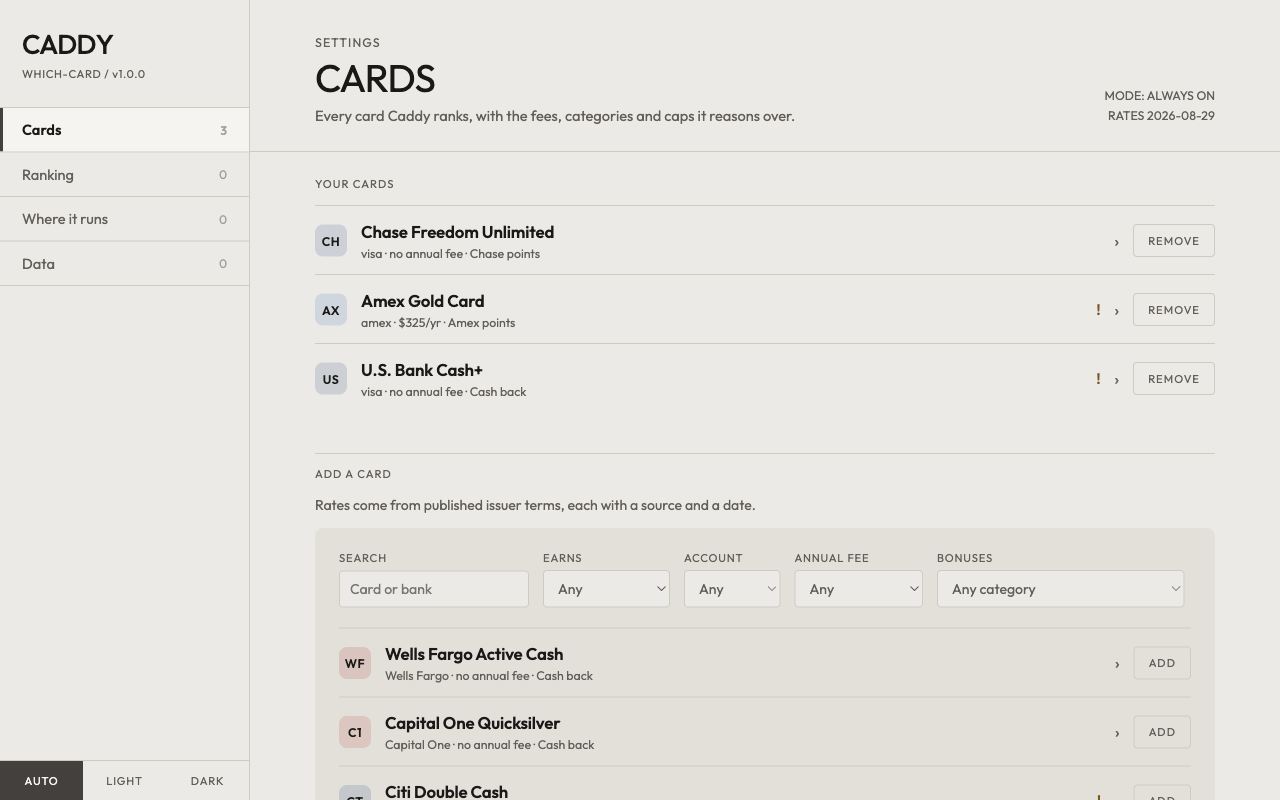
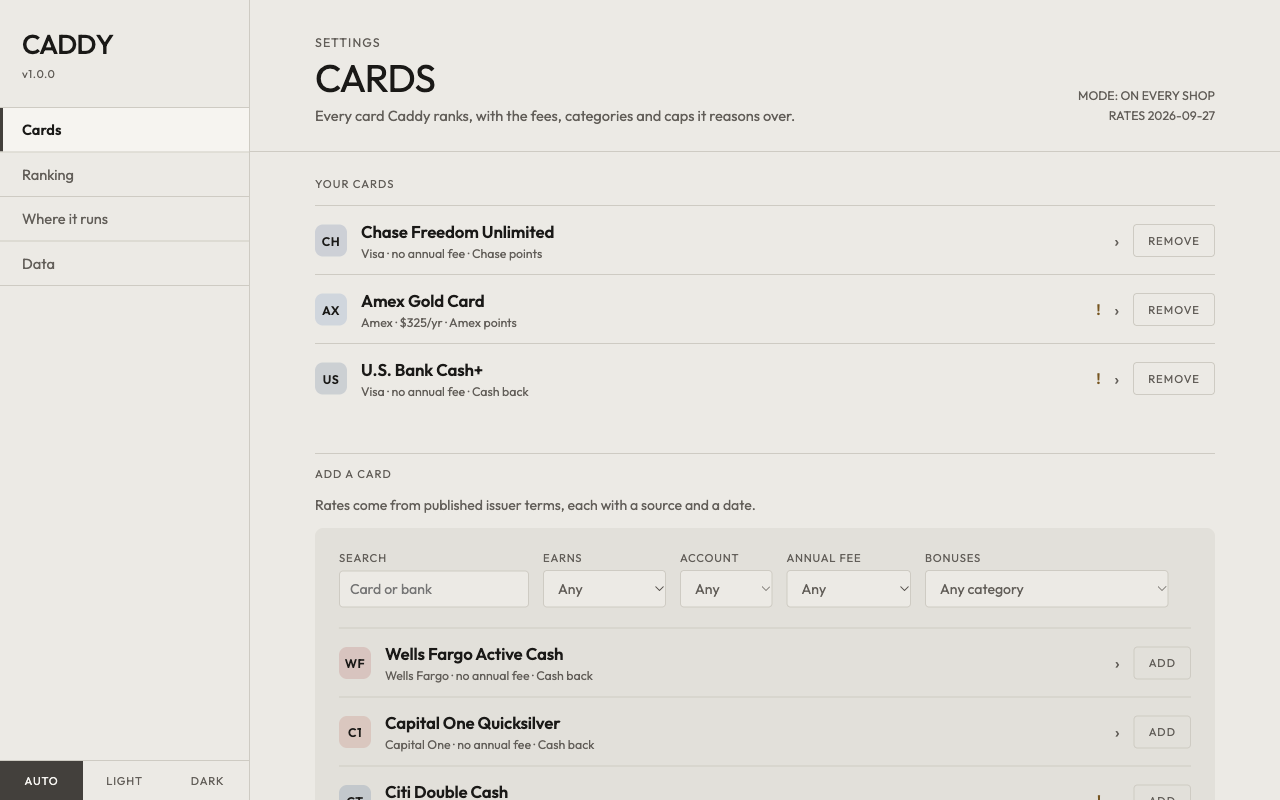
Label points values "est.", add a Lead with setting, fix audit wording
David: points-based percentages rest on a cents-per-point guess, so they
carry "est."; cash-back values do not. Settings > Ranking > Lead with picks
whether the percentage (default) or the multiplier is the big number; the
other sits beneath it, and the ranking is the same either way. The engine
now hands surfaces ready-made big/tag/sub strings, the Data pane's activity
log keeps an `est` flag, and 7 tests cover both modes.

Audit fixes: drop the old "WHICH-CARD" sidebar line; say nothing leaves the
browser in About; one set of mode names in Settings; capitalise card
networks; manifest description matches the store listing; four caveats lose
internal wording; "3X" and "$2 million" normalised in user-facing text;
README and `_comment` say the verified dates are first-verification dates.
Store screenshots 1 and 2 regenerated, with the pointer parked so no row
shows a hover fill. Shot 3 (the dock) is still stale.

diff --git a/src/options.js b/src/options.js
@@ -1,5 +1,5 @@
 import { pruneInstances, fontFaceCss, fontStack } from './engine.js';
-import { CURRENCY, ISSUER, KIND_LABEL, kindOf, mark, matchesSearch, money } from './issuers.js';
+import { CURRENCY, ISSUER, KIND_LABEL, kindOf, mark, matchesSearch, money, networkName } from './issuers.js';
 
 const $ = s => document.querySelector(s);
 const esc = s => String(s).replace(/[&<>"']/g, c =>
@@ -9,7 +9,7 @@ const SECTIONS = [
   { id: 'cards',   label: 'Cards',         title: 'Cards',
     blurb: 'Every card Caddy ranks, with the fees, categories and caps it reasons over.' },
   { id: 'ranking', label: 'Ranking',       title: 'Ranking',
-    blurb: 'The two things you can change that decide which card wins a close call.' },
+    blurb: 'What decides a close call, and what the big number shows.' },
   { id: 'runs',    label: 'Where it runs', title: 'Where it runs',
     blurb: 'On by default. Turn it off and Caddy waits to be asked.' },
   { id: 'data',    label: 'Data',          title: 'Data',
@@ -193,7 +193,7 @@ function blockOwned() {
         ${mark(p.issuer)}
         <span class="grow">
           <span class="row-name">${esc(p.name)}</span>
-          <span class="row-meta">${esc(p.network)} &middot; ${money(p.annual_fee)} &middot; ${esc(CURRENCY[p.currency] || p.currency)}</span>
+          <span class="row-meta">${esc(networkName(p.network))} &middot; ${money(p.annual_fee)} &middot; ${esc(CURRENCY[p.currency] || p.currency)}</span>
         </span>
         ${p.caution ? '<span class="flag" title="Has a caution">!</span>' : ''}
         <span class="chev" aria-hidden="true">&rsaquo;</span>
@@ -395,7 +395,7 @@ function renderDetail() {
       ${p.caution ? `<div class="note">${esc(p.caution)}</div>` : ''}
       <div class="spec">
         <div><span>ISSUER</span><span>${esc(ISSUER[p.issuer] || p.issuer)}</span></div>
-        <div><span>NETWORK</span><span>${esc(p.network)}</span></div>
+        <div><span>NETWORK</span><span>${esc(networkName(p.network))}</span></div>
         <div><span>ANNUAL FEE</span><span>${money(p.annual_fee)}</span></div>
         <div><span>EARNS</span><span>${esc(CURRENCY[p.currency] || p.currency)}</span></div>
         <div><span>BASE RATE</span><span>${p.base_rate}x</span></div>
@@ -435,6 +435,20 @@ function blockTies() {
     </div>`).join('')}
     ${chosen.length > 1 ? `<div class="bar"><button class="btn" data-clearalldefaults="1">CLEAR ALL</button></div>` : ''}
   </div>`;
+}
+
+function blockLead() {
+  const lead = prefs.lead === 'multiplier' ? 'multiplier' : 'value';
+  const opts = [
+    { key: 'value', label: 'Value', desc: 'The percentage leads, e.g. 10.50% est. The multiplier sits beneath it.' },
+    { key: 'multiplier', label: 'Multiplier', desc: 'What the card earns leads, e.g. 7x. The estimated value sits beneath it.' }
+  ];
+  return `<div class="grid modes">${opts.map(o => `
+    <button class="mode${o.key === lead ? ' on' : ''}" data-lead="${o.key}" aria-pressed="${o.key === lead}">
+      <div class="mode-state">${o.key === lead ? '&#9632; SELECTED' : '&#9633; SELECT'}</div>
+      <div class="mode-label">${esc(o.label)}</div>
+      <div class="mode-desc">${esc(o.desc)}</div>
+    </button>`).join('')}</div>`;
 }
 
 function blockModes() {
@@ -494,7 +508,7 @@ function blockActivity() {
         <span class="act-merchant">${esc(r.host)}</span>
         <span class="act-cat">${esc(catLabel(r.category))}</span>
         <span>${esc(r.card)}</span>
-        <span class="act-rate">${r.value.toFixed(2)}%</span>
+        <span class="act-rate">${r.value.toFixed(2)}%${r.est ? ' est.' : ''}</span>
       </div>`).join('')
     : `<div class="empty">${on
         ? 'Nothing yet. Visit a shop and the recommendation lands here.'
@@ -521,7 +535,7 @@ function blockActivity() {
 function blockAbout() {
   const kb = Math.max(1, Math.round(bytes / 1024));
   return `<div class="about">
-    <p class="lede">Caddy reads the domain of the page you are on. Nothing else leaves your browser.</p>
+    <p class="lede">Caddy reads the page you are on, in your browser, to tell a shop from a checkout. Nothing leaves your browser.</p>
     <div class="spec">
       <div><span>VERSION</span><span>${esc(VERSION)}</span></div>
       <div><span>RATE DATA</span><span>${esc(ratesDate() || 'unknown')}</span></div>
@@ -550,7 +564,8 @@ const PANES = {
 
   ranking: () =>
     head('Tie-breakers', 'Saved by "Always use" at checkout. Clear one to be asked again.') + blockTies() +
-    head('Point values', 'Cents per point. These are opinions, and they decide which card wins.') + blockPoints(),
+    head('Point values', 'Cents per point. These are opinions, and they decide which card wins.') + blockPoints() +
+    head('Lead with', 'What the big number shows. Ranking always sorts by estimated value.') + blockLead(),
 
   runs: () =>
     head('Mode') + blockModes() +
@@ -570,7 +585,7 @@ function render() {
   // is open. Stamping a resolved colour here would freeze it at load.
   if (theme === 'system') delete document.documentElement.dataset.theme;
   else document.documentElement.dataset.theme = theme;
-  $('#brandsub').textContent = `WHICH-CARD / v${VERSION}`;
+  $('#brandsub').textContent = `v${VERSION}`;
 
   $('#nav').innerHTML = SECTIONS.map(x => `
     <button data-section="${x.id}" ${x.id === section ? 'aria-current="page"' : ''}>
@@ -589,7 +604,7 @@ function render() {
   const date = ratesDate();
   $('#headmeta').innerHTML =
     `<div${auto && !running ? ' class="warn"' : ''}>MODE: ${
-      auto ? (running ? 'ALWAYS ON' : 'NOT RUNNING') : 'ON REQUEST'}</div>` +
+      auto ? (running ? 'ON EVERY SHOP' : 'NOT RUNNING') : 'ONLY WHEN YOU ASK'}</div>` +
     (date ? `<div>RATES ${esc(date)}</div>` : '') +
     (unverified ? `<div class="warn">${unverified} CARD${unverified > 1 ? 'S' : ''} UNVERIFIED</div>` : '');
 
@@ -691,6 +706,7 @@ document.addEventListener('click', e => {
   if (d.clearalldefaults) { prefs.categoryDefaults = {}; commit('prefs'); }
   if (d.clearactivity) { activity = []; commit('activity'); }
   if (d.activitylog) { prefs.activityLog = d.activitylog === 'on'; commit('prefs'); }
+  if (d.lead) { prefs.lead = d.lead; commit('prefs'); }
   if (d.auto) { setAuto(d.auto === 'auto'); }
   if (d.retryauto) {
     readAuto().then(st => {

diff --git a/src/engine.js b/src/engine.js
@@ -6,6 +6,11 @@
 
 const DEFAULT_TIE_BAND = 0.10;
 
+// Currencies that ARE cash. Every other currency is points or miles, so a
+// percentage derived from it rests on a cents-per-point estimate and is shown
+// with "est." -- the multiplier is the only thing that is certain.
+const CASH_LIKE = new Set(['cash', 'disco']);
+
 // The one font, bundled as woff2 and never fetched from a CDN, because the whole
 // product claim is that the extension makes no network calls.
 //
@@ -476,6 +481,9 @@ export function rank(input) {
   const categorySource = merchant ? 'merchant' : (inferred ? 'inferred' : 'default');
   const tieBand = prefs.tieBand ?? DEFAULT_TIE_BAND;
   const categoryDefaults = prefs.categoryDefaults || {};
+  // Display only. Ranking always sorts by value: 5x Chase points and 2% cash can
+  // only be compared in one unit.
+  const lead = prefs.lead === 'multiplier' ? 'multiplier' : 'value';
 
   const entries = [];
   const notes = [];
@@ -530,6 +538,9 @@ export function rank(input) {
     const cpp = valuations[p.currency] ?? 1.0;
 
     const value = Math.round(rate * cpp * 1000) / 1000;
+    const est = !CASH_LIKE.has(p.currency);
+    const where = best ? `on ${shortCategory(best.category)}` : 'base rate';
+    const mult = `${fmtRate(rate)}${est ? 'x' : '%'}`;
     const staleReason = stalenessFor(p, best, expired, now);
 
     if (portal) {
@@ -542,7 +553,7 @@ export function rank(input) {
         notes.push({
           productId: p.id,
           value: portalValue,
-          text: `${p.name}: ${portalRate}x (${portalValue.toFixed(2)}%) if you book through ${portal.portal} instead`
+          text: `${p.name}: ${portalRate}x (${portalValue.toFixed(2)}%${est ? ' est.' : ''}) if you book through ${portal.portal} instead`
         });
       }
     }
@@ -557,9 +568,16 @@ export function rank(input) {
       cpp,
       value,
       matchedCategory: best ? best.category : null,
-      reason: best
-        ? `${fmtRate(rate)}x on ${shortCategory(best.category)}`
-        : `${fmtRate(rate)}x base rate`,
+      reason: `${fmtRate(rate)}x ${where}`,
+      // What a surface prints: the big number, a small tag beside it, and the
+      // line under the card name. `lead` picks which of multiplier and value is
+      // big; the other moves to the line beneath, so both are always on screen.
+      est,
+      big: lead === 'multiplier' ? mult : `${value.toFixed(2)}%`,
+      tag: lead === 'multiplier' ? '' : (est ? 'est.' : ''),
+      sub: lead === 'multiplier'
+        ? (est ? `${where} \u00b7 ${value.toFixed(2)}% est.` : where)
+        : `${fmtRate(rate)}x ${where}`,
       caveats: staleReason ? [...caveatsFor(best, p), staleReason] : caveatsFor(best, p),
       // Surfaced on its own as well as in caveats, for the same reason
       // needsActivation is: the overlay renders no caveat list, and this is the
@@ -608,7 +626,7 @@ export function rank(input) {
 
   return { hostname, merchant, category: baseCategory,
            categoryLabel: shortCategory(baseCategory), categorySource,
-           all: entries, winner, tied, resolvedBy, tieBand, notes,
+           all: entries, winner, tied, resolvedBy, tieBand, lead, notes,
            // One flag so a surface can show a banner without walking the list.
            stale: entries.some(e => e.staleReason) };
 }

diff --git a/src/content.js b/src/content.js
@@ -17,7 +17,8 @@
 
   const RAIL_RIGHT = 16, DOCK_H = 44, GAP = 10, EDGE = 8;
 
-  const money = v => `${v.toFixed(2)}%`;
+  // "est." rides beside a points-based percentage; see engine.js.
+  const val = c => esc(c.big) + (c.tag ? `<span class="est">${esc(c.tag)}</span>` : '');
 
   // Why this card won. Without it, "saved choice" and "genuinely the only
   // winner" look identical, which made a real bug impossible to diagnose.
@@ -502,6 +503,7 @@
            not on the ramp, which is how a type scale stops being one. */
         .win-val { flex: none; font-size: 22px; font-weight: 500; letter-spacing: -.02em;
                    line-height: 1; font-variant-numeric: tabular-nums; }
+        .est { font-size: 11px; font-weight: 400; letter-spacing: 0; color: var(--muted); margin-left: 4px; }
         .note { color: var(--muted); font-size: 10.5px; line-height: 1.45; margin-top: 6px; }
         /* Louder than .note on purpose: a note is extra information, this
            says the number above it may be wrong. */
@@ -540,9 +542,9 @@
           <div class="win">
             <div class="win-text">
               <div class="name">${esc(res.winner.name)}</div>
-              <div class="rate">${esc(res.winner.reason)}</div>
+              <div class="rate">${esc(res.winner.sub)}</div>
             </div>
-            <div class="win-val">${money(res.winner.value)}</div>
+            <div class="win-val">${val(res.winner)}</div>
           </div>
           ${res.resolvedBy === 'category_default'
             ? `<div class="why">${esc(WHY.category_default)} <button class="undo">change</button></div>`
@@ -560,13 +562,13 @@
               ${[res.winner, ...others].map(c => `
                 <div class="row">
                   <span class="alt-name">${esc(c.name)}</span>
-                  <span class="alt-val">${money(c.value)}</span>
+                  <span class="alt-val">${val(c)}</span>
                   <button class="pin" data-id="${esc(c.productId)}">Use</button>
                 </div>`).join('')}
             </div>` : ''}
         </div>
         <div class="dock">
-          <button class="icon" title="${esc(res.winner.name)} &mdash; ${money(res.winner.value)} back"
+          <button class="icon" title="${esc(res.winner.name)} &mdash; ${esc(res.winner.big)}${res.winner.tag ? ' ' + esc(res.winner.tag) : ''}"
                   aria-label="Show card recommendation" aria-expanded="false">${MARK}</button>
           <div class="grip" role="button" aria-label="Drag up or down to move" title="Drag up or down to move">${GRIP}</div>
         </div>

diff --git a/src/popup.js b/src/popup.js
@@ -42,7 +42,6 @@ function applyFont() {
   tag.textContent = fontFaceCss(chrome.runtime.getURL);
   document.documentElement.style.setProperty('--font', fontStack());
 }
-const money = v => `${v.toFixed(2)}%`;
 const esc = s => String(s).replace(/[&<>"']/g, c =>
   ({ '&': '&amp;', '<': '&lt;', '>': '&gt;', '"': '&quot;', "'": '&#39;' }[c]));
 
@@ -153,9 +152,9 @@ $('#opts').addEventListener('click', () => chrome.runtime.openOptionsPage());
         <span class="rank">${i + 1}</span>
         <span class="grow">
           <div class="name">${esc(c.name)}</div>
-          <div class="sub">${esc(c.reason)}</div>
+          <div class="sub">${esc(c.sub)}</div>
           ${short(c) ? `<div class="cav">${esc(short(c))}</div>` : ''}
         </span>
-        <span class="val">${money(c.value)}</span>
+        <span class="val">${esc(c.big)}${c.tag ? `<span class="est">${esc(c.tag)}</span>` : ''}</span>
       </div>`).join('');
 })();

diff --git a/src/ui.css b/src/ui.css
@@ -77,6 +77,8 @@ h2 { font-size: 10px; letter-spacing: .1em; text-transform: uppercase; color: va
 .cav { color: var(--warn); font-size: 10.5px; line-height: 1.4; margin-top: 3px; }
 .val { font-weight: 600; font-size: 12.5px; white-space: nowrap;
        font-variant-numeric: tabular-nums; }
+/* "est." after a points value: the percentage rests on a cents-per-point guess. */
+.est { font-size: 10px; font-weight: 400; color: var(--muted); margin-left: 3px; }
 
 /* No border: on a plain ground a hairline around a 10px label reads as a frame,
    not a control. The fill is the affordance. */

diff --git a/src/issuers.js b/src/issuers.js
@@ -29,6 +29,10 @@ const MONOGRAM = {
   navyfederal: 'NF', column: 'CN', comenity: 'CM', firstbanktrust: 'FB'
 };
 
+const NETWORK = { visa: 'Visa', mastercard: 'Mastercard', amex: 'Amex', discover: 'Discover',
+  'store card': 'Store card', 'visa or mastercard': 'Visa or Mastercard' };
+export const networkName = n => NETWORK[n] || n;
+
 /** Full issuer names, for anywhere the two-letter mark is not enough on its own. */
 export const ISSUER = {
   chase: 'Chase', robinhood: 'Robinhood', bofa: 'Bank of America',

diff --git a/src/background.js b/src/background.js
@@ -120,7 +120,8 @@ function logActivity(result) {
       host: result.merchant ? result.merchant.domain : normalizeHost(result.hostname),
       category: result.category,
       card: result.winner.name,
-      value: result.winner.value
+      value: result.winner.value,
+      est: result.winner.est
     };
     // An SPA fires PAGE on every route change, so collapse a repeat of the same
     // answer on the same site into the row that is already there.

diff --git a/HANDOFF.md b/HANDOFF.md
@@ -38,8 +38,9 @@ works and why; this file is only the state of play.
   permission prompts. Rate changes they find wait on `rates-*` and `upkeep-*`
   branches for David's approval; only `last_verified` date bumps land on `main`
   by themselves.
-- **Nothing unpushed.** `main` on GitHub is the whole tree. All three store
-  screenshots are still current -- the new cards rank after the ones they show.
+- **Store screenshots 1 and 2 were regenerated 2026-10-01; 3 is stale.** The dock
+  now has a gear and shows "est." on points values, so `3-dock-on-a-store.png`
+  needs a hand capture from an installed copy before submitting to the Web Store.
 - **`caddy-1.0.0.zip` sits in the repo root**, rebuilt on every commit. See the
   packaging note below.
 - **Rules David decided 2026-09-28.** A store rate is what the card adds over
@@ -139,7 +140,7 @@ Everything is written, checked and current. Nothing about it is blocked.
   the change.
 - Icons ship already, drawn by `tools/make-icons.mjs`.
 - The upload is `caddy-1.0.0.zip` in the repo root. It is already built.
-- **All three screenshots are current at 1280x800.** `1-settings-cards.png` and
+- **Screenshots are 1280x800; shot 3 is stale since 2026-10-01 (see State).** `1-settings-cards.png` and
   `2-setup-your-cards.png` were regenerated on 2026-09-13 by
   `node tools/make-screenshots.mjs`, after the setup rework made the old setup
   shot wrong. `3-dock-on-a-store.png` is the hand-captured one: hotels.com, panel

diff --git a/README.md b/README.md
@@ -24,10 +24,10 @@ Not financial advice. Verify any rate against your issuer before relying on it.
 
 ## Data status
 
-All 164 card records were verified against issuer sources -- 5 on **2026-08-29**, 6 on
+All 164 card records were verified against issuer sources, first on these dates -- 5 on **2026-08-29**, 6 on
 **2026-09-09**, 5 on **2026-09-10**, 24 on **2026-09-27**, 100 on **2026-09-28**, 12 on
 **2026-09-29** and 12 on **2026-09-30**. Each
-carries `verified: true`, `last_verified`, and a `source_url`. The 2026-09-27 batch is
+carries `verified: true`, `last_verified` (its latest re-read), and a `source_url`. The 2026-09-27 batch is
 the twenty cards added that day plus four whose categories changed with them; the
 2026-09-28 cards are seven store cards, the sixteen remaining tiers of the Delta,
 Hilton, Marriott, United, Southwest, Hyatt and IHG cards, and nineteen from issuers

diff --git a/store/listing.md b/store/listing.md
@@ -263,7 +263,7 @@ without the first one.
 
 | Asset | Spec | Status |
 | --- | --- | --- |
-| Screenshots | 1280x800, 1-5, at least 1 required | **All 3 current** -- regenerated 2026-09-13 |
+| Screenshots | 1280x800, 1-5, at least 1 required | **1 and 2 current** -- regenerated 2026-10-01. **3 stale** -- made 2026-09-12, before the dock gained a gear and "est."; recapture it from an installed copy |
 | Small promo tile | 440x280 | Optional, not made |
 | Marquee promo tile | 1400x560 | Optional, not made |
 | Store icon | 128x128 | `icons/icon128.png` ships already |
